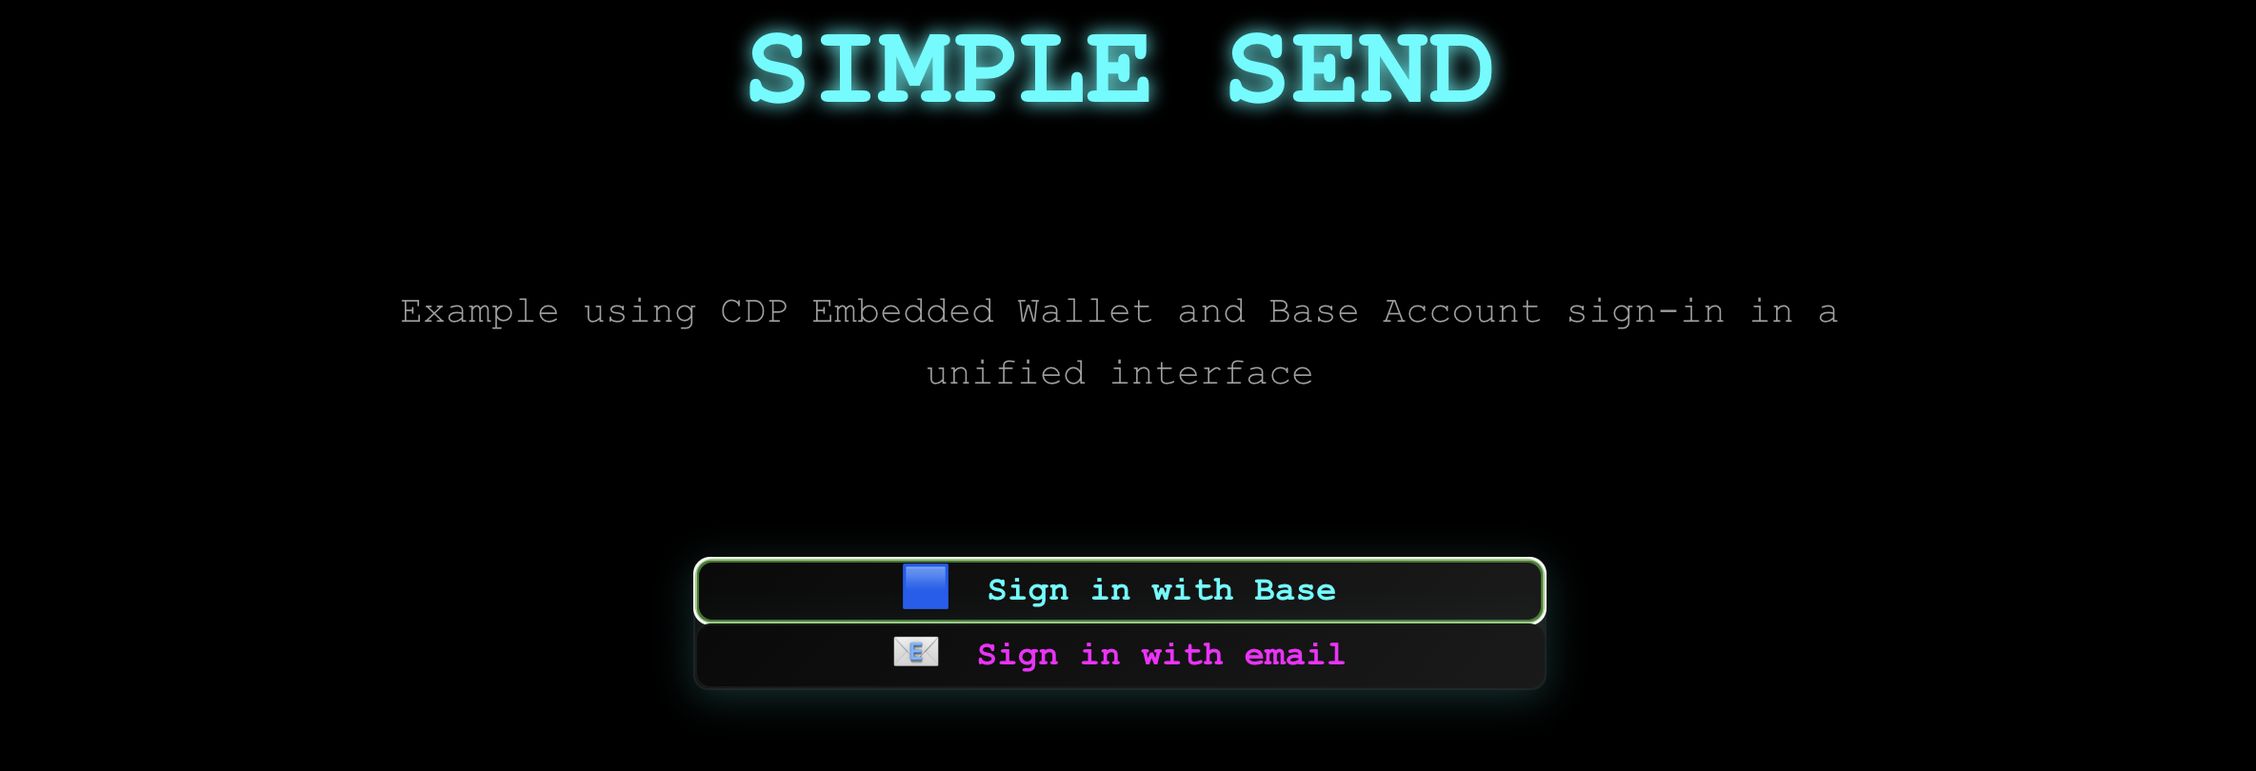
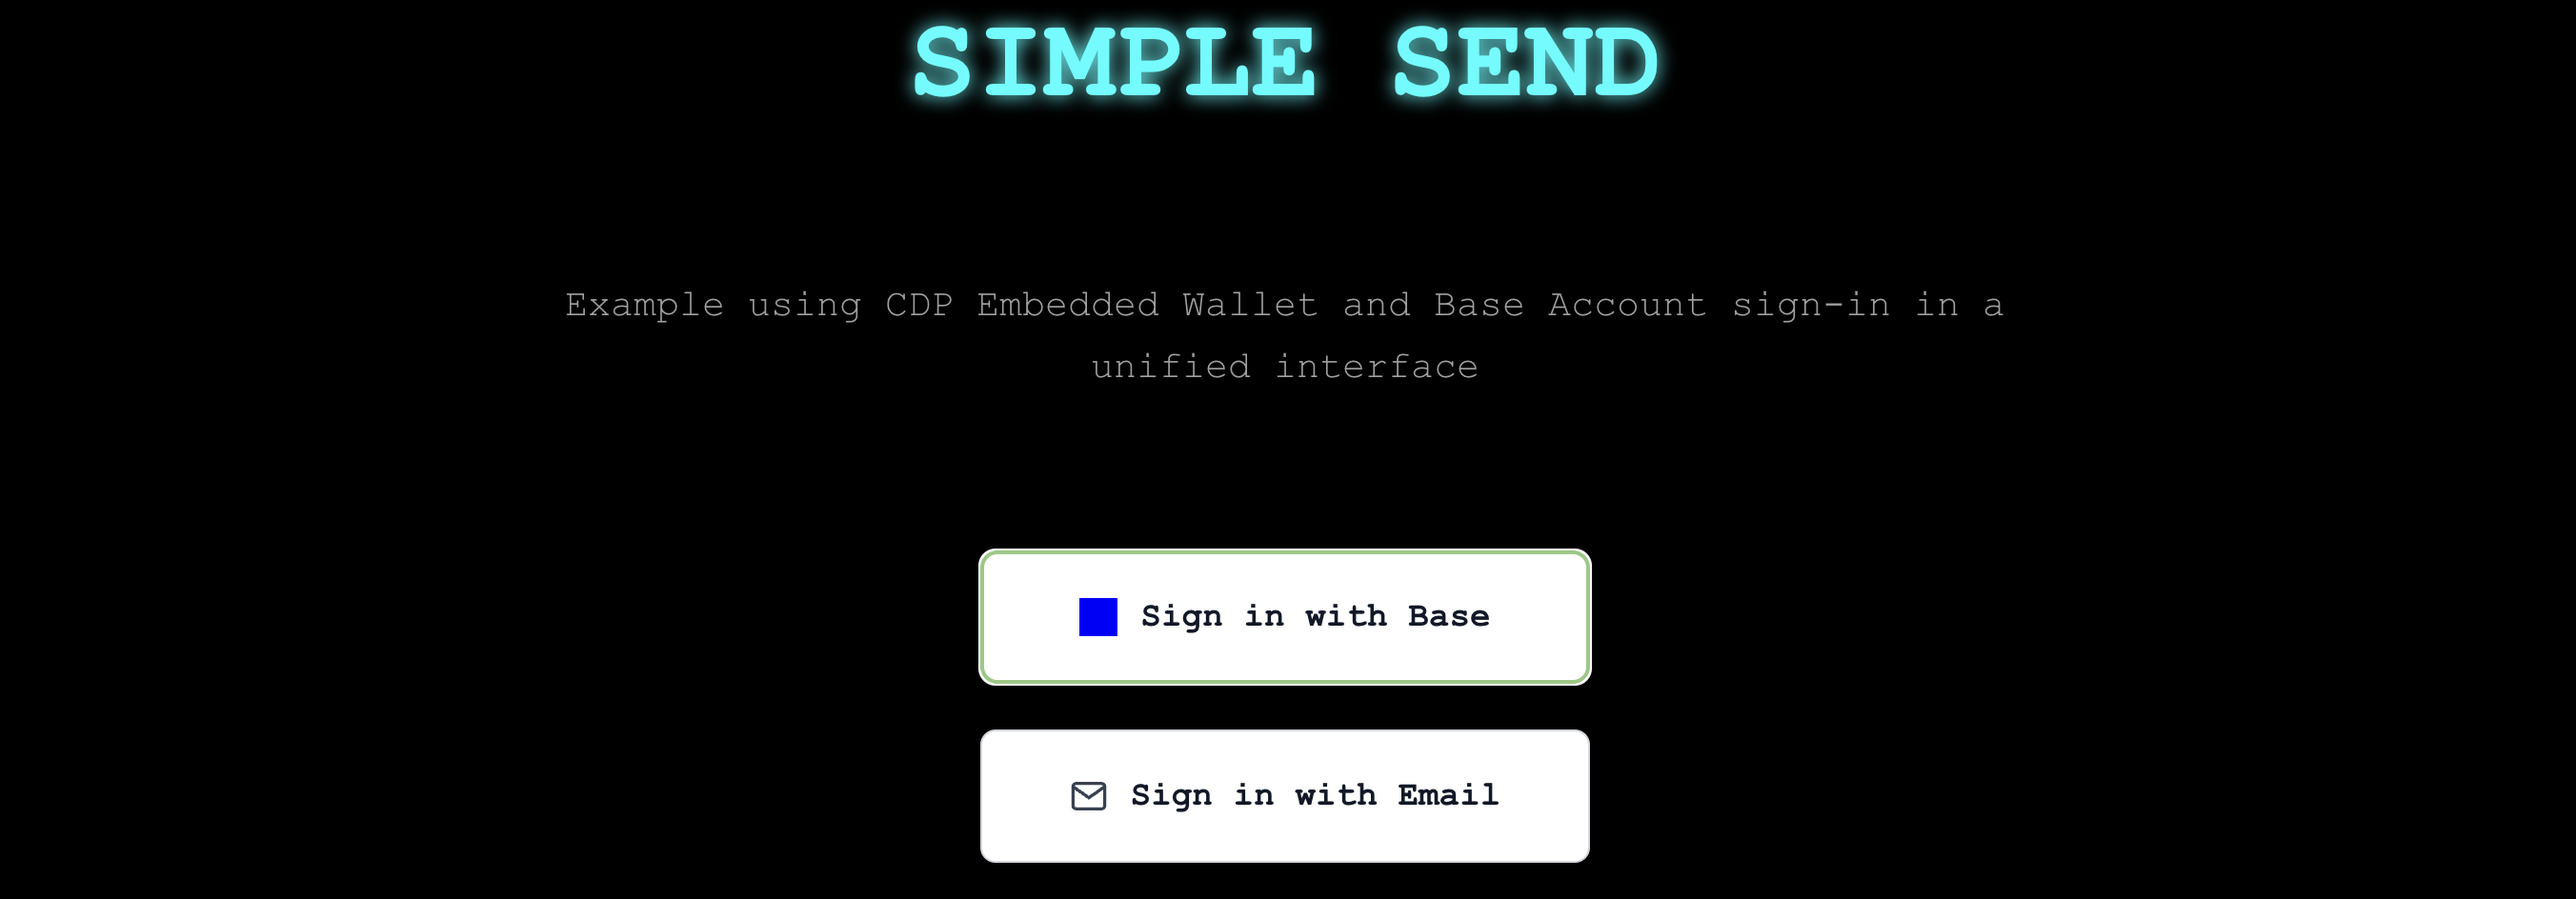
Updated the unified auth UI to follow Sign in with Base brand guidelines in Base docs, and updated readme screenshot

diff --git a/src/components/WalletAuthButton.tsx b/src/components/WalletAuthButton.tsx
@@ -152,30 +152,40 @@ export function WalletAuthButton() {
   // Initial selection
   return (
     <div className="space-y-6">
-      <div className="space-y-4">
+      <div className="flex flex-col items-center" style={{ gap: '24px' }}>
+        {/* Base Account Button - Following Official Brand Guidelines */}
         <button
           onClick={connectBaseAccount}
-          className="w-full p-6 cyber-card hover:border-cyber-blue transition-all duration-300 rounded-lg group"
+          className="flex items-center justify-center bg-white hover:bg-gray-100 border border-gray-300 rounded-lg transition-all duration-300 group"
+          style={{ padding: '20px 40px', width: '320px' }}
         >
-          <div className="flex items-center justify-center">
-            <span className="text-2xl group-hover:scale-110 transition-transform">🟦</span>
-            <div style={{ width: '20px' }}></div>
-            <div className="font-bold cyber-text-primary text-lg">
-              Sign in with Base
-            </div>
+          {/* Official Base Logo - Blue square on light background */}
+          <div 
+            className="w-5 h-5 group-hover:scale-105 transition-transform"
+            style={{ backgroundColor: '#0000FF' }}
+          ></div>
+          <div style={{ width: '12px' }}></div>
+          <div className="font-semibold text-gray-900 text-lg">
+            Sign in with Base
           </div>
         </button>
 
+        {/* Email Button - Visually Consistent */}
         <button
           onClick={() => setAuthStep('email')}
-          className="w-full p-6 cyber-card hover:border-cyber-secondary transition-all duration-300 rounded-lg group"
+          className="flex items-center justify-center bg-white hover:bg-gray-100 border border-gray-300 rounded-lg transition-all duration-300 group"
+          style={{ padding: '20px 40px', width: '320px' }}
         >
-          <div className="flex items-center justify-center">
-            <span className="text-2xl group-hover:scale-110 transition-transform">📧</span>
-            <div style={{ width: '20px' }}></div>
-            <div className="font-bold cyber-text-secondary text-lg">
-              Sign in with email
-            </div>
+          {/* Email Icon */}
+          <div className="w-5 h-5 flex items-center justify-center group-hover:scale-105 transition-transform">
+            <svg width="20" height="20" viewBox="0 0 24 24" fill="none" stroke="#374151" strokeWidth="2">
+              <path d="M4 4h16c1.1 0 2 .9 2 2v12c0 1.1-.9 2-2 2H4c-1.1 0-2-.9-2-2V6c0-1.1.9-2 2-2z"/>
+              <polyline points="22,6 12,13 2,6"/>
+            </svg>
+          </div>
+          <div style={{ width: '12px' }}></div>
+          <div className="font-semibold text-gray-900 text-lg">
+            Sign in with Email
           </div>
         </button>
       </div>

diff --git a/src/app/page.tsx b/src/app/page.tsx
@@ -33,7 +33,7 @@ export default function HomePage() {
             </div>
 
             {/* Authentication Component */}
-            <div className="cyber-card p-8 rounded-lg max-w-md w-full">
+            <div className="max-w-md w-full">
               <WalletAuthButton />
             </div>
           </div>
